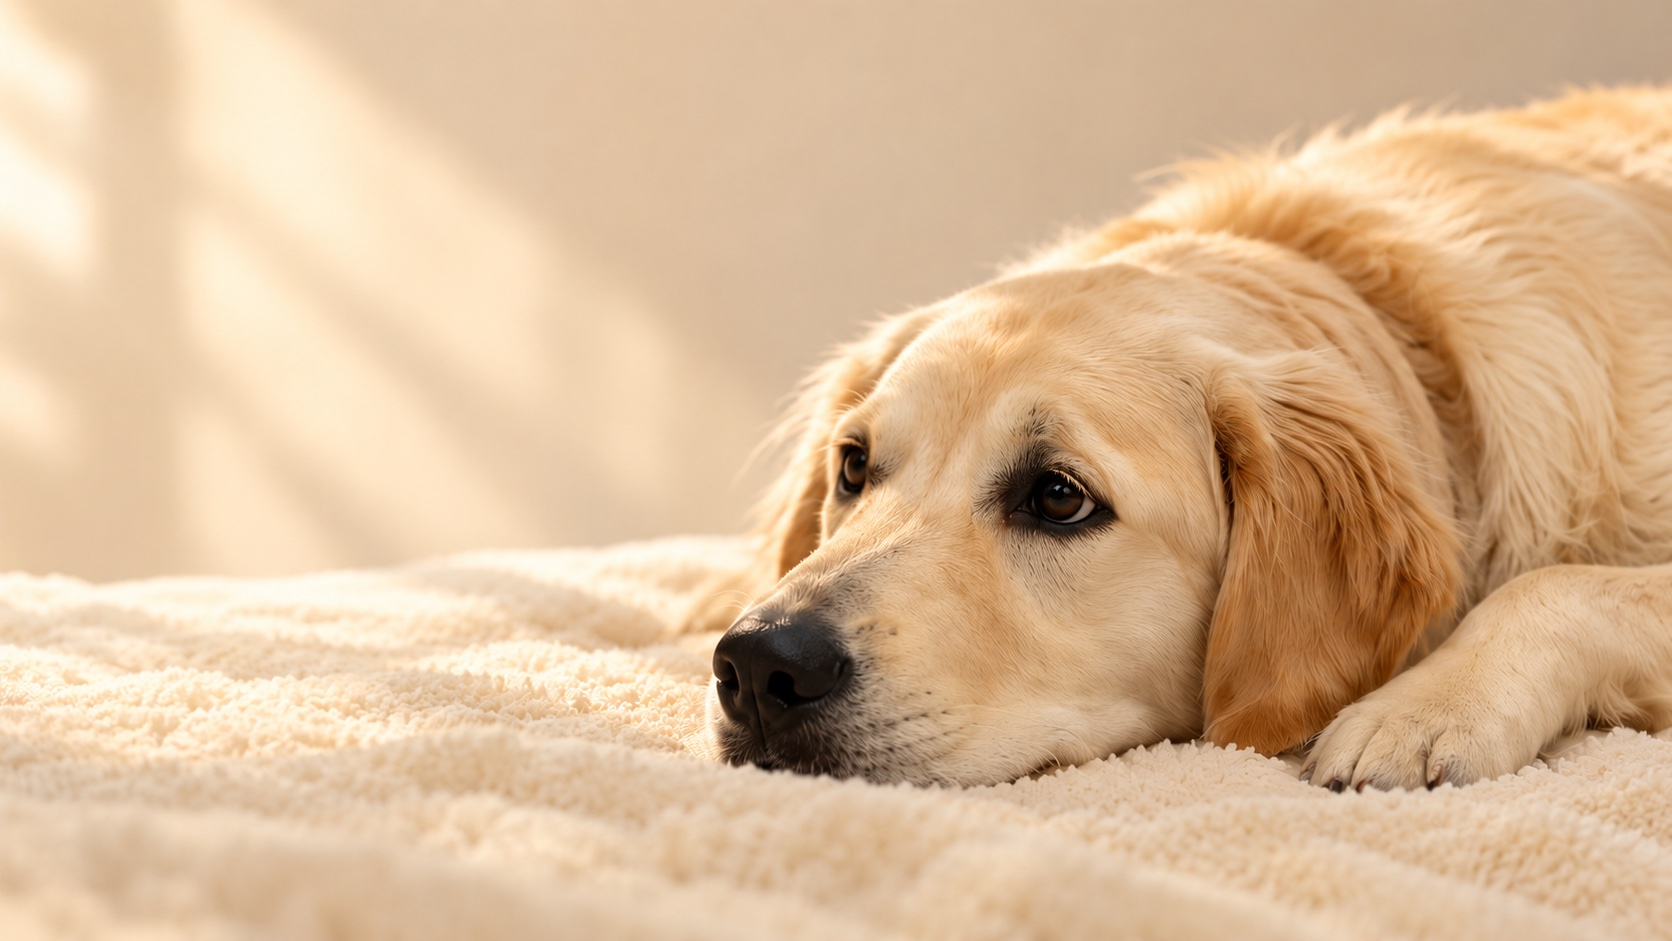
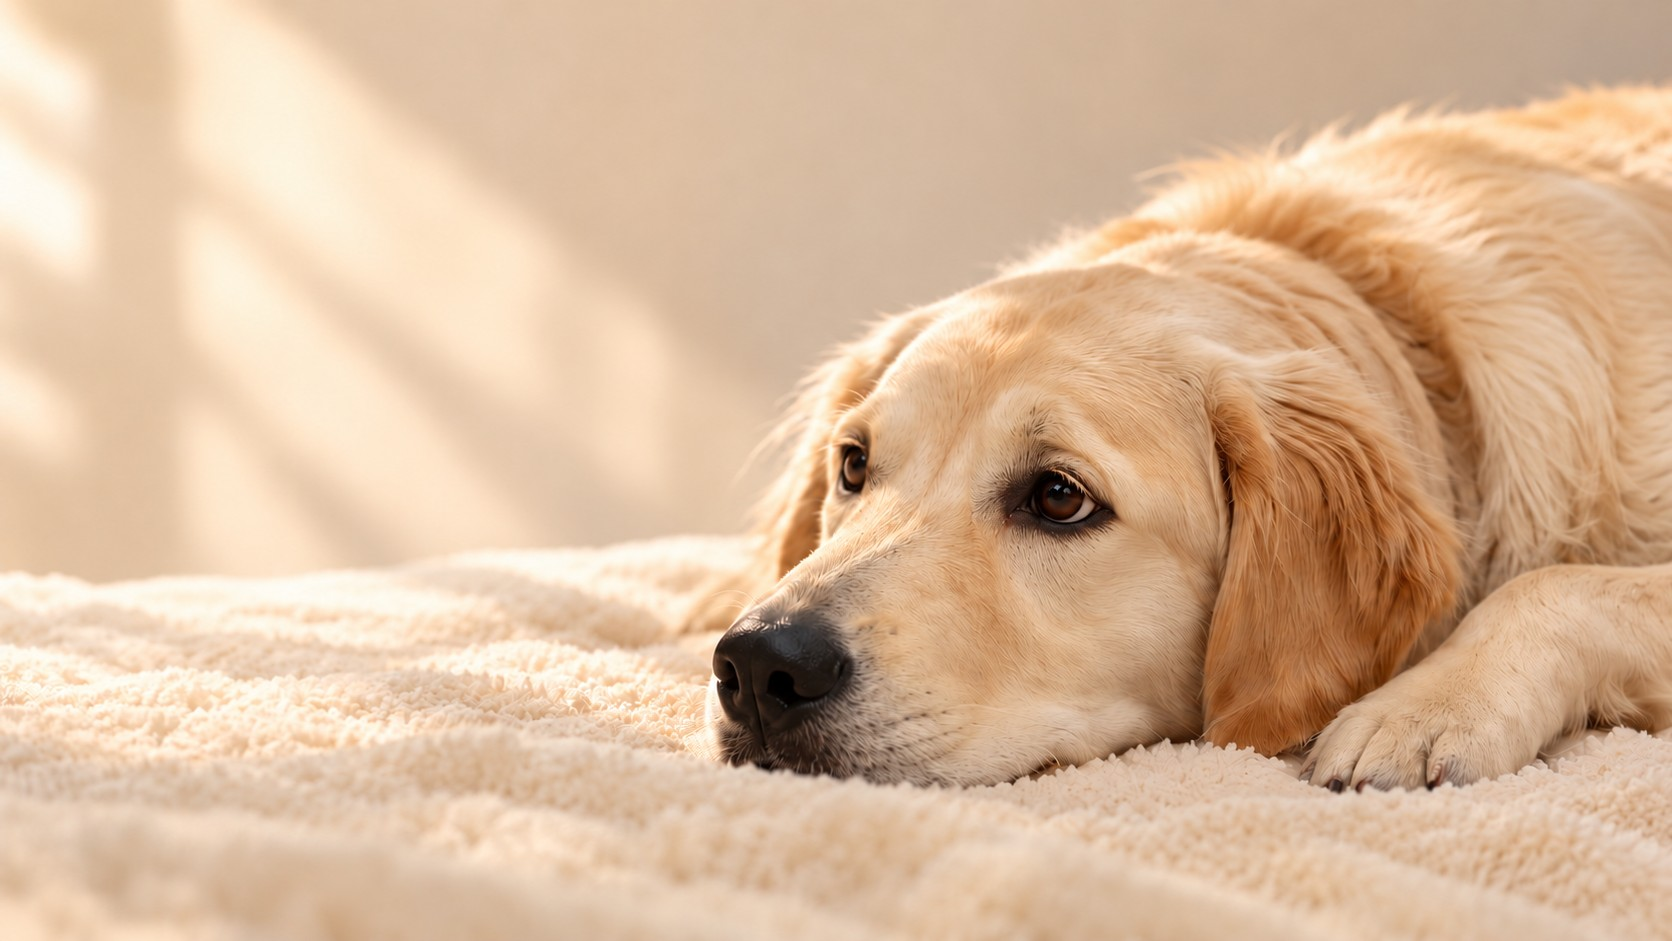
Refine homepage translucent header and clean Mochi eye details

diff --git a/app/components/SiteChrome.js b/app/components/SiteChrome.js
@@ -1,5 +1,6 @@
 "use client";
 import Link from "next/link";
+import {usePathname} from "next/navigation";
 import {useEffect,useRef,useState} from "react";
 import styles from "../homepage.module.css";
 import chrome from "./SiteChrome.module.css";
@@ -9,7 +10,7 @@ function SearchIcon(){return <svg viewBox="0 0 24 24" aria-hidden="true"><circle
 function AccountIcon(){return <svg viewBox="0 0 24 24" aria-hidden="true"><circle cx="12" cy="8" r="3.5"/><path d="M5 20c.8-3.5 3-5.2 7-5.2s6.2 1.7 7 5.2"/></svg>}
 function BagIcon(){return <svg viewBox="0 0 24 24" aria-hidden="true"><path d="M5 8h14l-1 12H6L5 8Z"/><path d="M9 8a3 3 0 0 1 6 0"/></svg>}
 
-export function SiteHeader(){const [user,setUser]=useState(null),[open,setOpen]=useState(false),menuRef=useRef(null);useEffect(()=>{let mounted=true;const supabase=createClient();supabase.auth.getUser().then(({data})=>{if(mounted)setUser(data.user||null)});const {data:{subscription}}=supabase.auth.onAuthStateChange((_event,session)=>{if(mounted)setUser(session?.user||null)});function close(event){if(!menuRef.current?.contains(event.target))setOpen(false)}document.addEventListener("pointerdown",close);return()=>{mounted=false;subscription.unsubscribe();document.removeEventListener("pointerdown",close)}},[]);async function signOut(){const supabase=createClient();await supabase.auth.signOut();setOpen(false);window.location.assign("/")}return <div className={`${styles.home} ${chrome.chrome}`}><header className={styles.siteHeader}><Link href="/" className={styles.logo}><img src="/brand/evlenne-logo-star.png" alt="Evlenne" width="2172" height="724"/></Link><nav className={styles.desktopNav} aria-label="Main"><a href="/#shop">Shop</a><a href="/#how-it-works">How It Works</a><a href="/our-story">Our Story</a></nav><div className={styles.headerActions}><button aria-label="Search"><SearchIcon/></button>{user?<div className={chrome.accountMenu} ref={menuRef}><button type="button" className={chrome.accountTrigger} aria-label="Account menu" aria-haspopup="menu" aria-expanded={open} onClick={()=>setOpen(value=>!value)}><AccountIcon/></button>{open&&<div className={chrome.accountPopover} role="menu"><p>{user.email}</p><Link href="/pets" role="menuitem" onClick={()=>setOpen(false)}>My pets</Link><button type="button" role="menuitem" onClick={signOut}>Sign out</button></div>}</div>:<Link href="/account" aria-label="Sign in"><AccountIcon/></Link>}<button aria-label="Bag"><BagIcon/></button><Link href="/studio" className={styles.headerCta}>Create Your Pet</Link></div><details className={styles.mobileMenu}><summary aria-label="Open menu"><i/><i/><i/></summary><div><a href="/#shop">Shop</a><a href="/#how-it-works">How It Works</a><a href="/our-story">Our Story</a>{user?<><Link href="/pets">My Pets</Link><button type="button" onClick={signOut}>Sign out</button></>:<Link href="/account">Account</Link>}<Link href="/studio">Create Your Pet</Link></div></details></header></div>}
+export function SiteHeader(){const isHome=usePathname()==="/";const [user,setUser]=useState(null),[open,setOpen]=useState(false),menuRef=useRef(null);useEffect(()=>{let mounted=true;const supabase=createClient();supabase.auth.getUser().then(({data})=>{if(mounted)setUser(data.user||null)});const {data:{subscription}}=supabase.auth.onAuthStateChange((_event,session)=>{if(mounted)setUser(session?.user||null)});function close(event){if(!menuRef.current?.contains(event.target))setOpen(false)}document.addEventListener("pointerdown",close);return()=>{mounted=false;subscription.unsubscribe();document.removeEventListener("pointerdown",close)}},[]);async function signOut(){const supabase=createClient();await supabase.auth.signOut();setOpen(false);window.location.assign("/")}return <div className={`${styles.home} ${chrome.chrome} ${isHome?styles.homepageHeader:""}`}><header className={styles.siteHeader}><Link href="/" className={styles.logo}><img src="/brand/evlenne-logo-star.png" alt="Evlenne" width="2172" height="724"/></Link><nav className={styles.desktopNav} aria-label="Main"><a href="/#shop">Shop</a><a href="/#how-it-works">How It Works</a><a href="/our-story">Our Story</a></nav><div className={styles.headerActions}><button aria-label="Search"><SearchIcon/></button>{user?<div className={chrome.accountMenu} ref={menuRef}><button type="button" className={chrome.accountTrigger} aria-label="Account menu" aria-haspopup="menu" aria-expanded={open} onClick={()=>setOpen(value=>!value)}><AccountIcon/></button>{open&&<div className={chrome.accountPopover} role="menu"><p>{user.email}</p><Link href="/pets" role="menuitem" onClick={()=>setOpen(false)}>My pets</Link><button type="button" role="menuitem" onClick={signOut}>Sign out</button></div>}</div>:<Link href="/account" aria-label="Sign in"><AccountIcon/></Link>}<button aria-label="Bag"><BagIcon/></button><Link href="/studio" className={styles.headerCta}>Create Your Pet</Link></div><details className={styles.mobileMenu}><summary aria-label="Open menu"><i/><i/><i/></summary><div><a href="/#shop">Shop</a><a href="/#how-it-works">How It Works</a><a href="/our-story">Our Story</a>{user?<><Link href="/pets">My Pets</Link><button type="button" onClick={signOut}>Sign out</button></>:<Link href="/account">Account</Link>}<Link href="/studio">Create Your Pet</Link></div></details></header></div>}
 
 function SocialLinks(){return <div className={chrome.social}><span>Follow along</span><div><a href="#footer" aria-label="TikTok"><svg viewBox="0 0 24 24" aria-hidden="true"><path d="M14 4v10.3a3.7 3.7 0 1 1-3-3.65"/><path d="M14 4c.7 2.2 2.1 3.4 4.4 3.7"/></svg></a><a href="#footer" aria-label="Instagram"><svg viewBox="0 0 24 24" aria-hidden="true"><rect x="4" y="4" width="16" height="16" rx="4"/><circle cx="12" cy="12" r="3.5"/><circle cx="17.3" cy="6.8" r=".8" fill="currentColor" stroke="none"/></svg></a><a href="#footer" aria-label="Facebook"><svg viewBox="0 0 24 24" aria-hidden="true"><path d="M14 20v-7h2.5l.5-3H14V8.2c0-.9.3-1.7 1.7-1.7H17V3.8c-.5-.1-1.4-.2-2.3-.2C12.3 3.6 11 5 11 7.5V10H8.5v3H11v7"/></svg></a></div></div>}
 

diff --git a/app/homepage.module.css b/app/homepage.module.css
@@ -113,7 +113,7 @@
   position:relative;
   isolation:isolate;
   display:flex;
-  min-height:650px;
+  min-height:730px;
   border-bottom:1px solid var(--line)}
 .heroCopy {
   position:relative;
@@ -123,7 +123,7 @@
   display:flex;
   flex-direction:column;
   justify-content:center;
-  padding:90px clamp(30px,7vw,110px);
+  padding:170px clamp(30px,7vw,110px) 90px;
   padding-right:clamp(70px,8vw,140px)}
 .hero h1,.sectionIntro h2,.centerIntro h2,.story h2,.profile h2,.materials h2,.finalCta h2 {
   font-family:var(--font-serif),Georgia,serif;
@@ -176,7 +176,7 @@
   position:absolute;
   inset:0;
   z-index:-1;
-  min-height:650px;
+  min-height:730px;
   background:#e9dfd2;
   overflow:hidden}
 .heroVisual img {
@@ -553,7 +553,7 @@
   min-height:0}
 .heroCopy {
   width:100%;
-  padding:70px 24px 60px}
+  padding:134px 24px 60px}
 .hero h1 {
   font-size:clamp(48px,14vw,64px)}
 .heroLead {
@@ -709,3 +709,11 @@
   .heroPromises>div {min-height:104px;border-bottom:1px solid var(--line)}
   .heroVisual img {object-position:74% center}
 }
+
+/* A light overlay lets the homepage photograph continue behind navigation. */
+.home.homepageHeader {position:absolute;top:0;left:0;width:100%;z-index:20;background:transparent}
+.homepageHeader .siteHeader {min-height:80px;padding:12px clamp(24px,5vw,76px);background:rgba(251,248,242,.48);backdrop-filter:blur(12px);-webkit-backdrop-filter:blur(12px);border-bottom:1px solid rgba(222,211,197,.35)}
+.homepageHeader .logo {width:168px}
+.homepageHeader .headerCta {padding:10px 14px;background:transparent;border:1px solid rgba(73,54,42,.45);color:var(--brown)!important;font-size:12px}
+.homepageHeader .mobileMenu>div {top:100%}
+@media(max-width:700px){.homepageHeader .siteHeader {min-height:64px;padding:8px 20px}.homepageHeader .logo {width:144px}}
